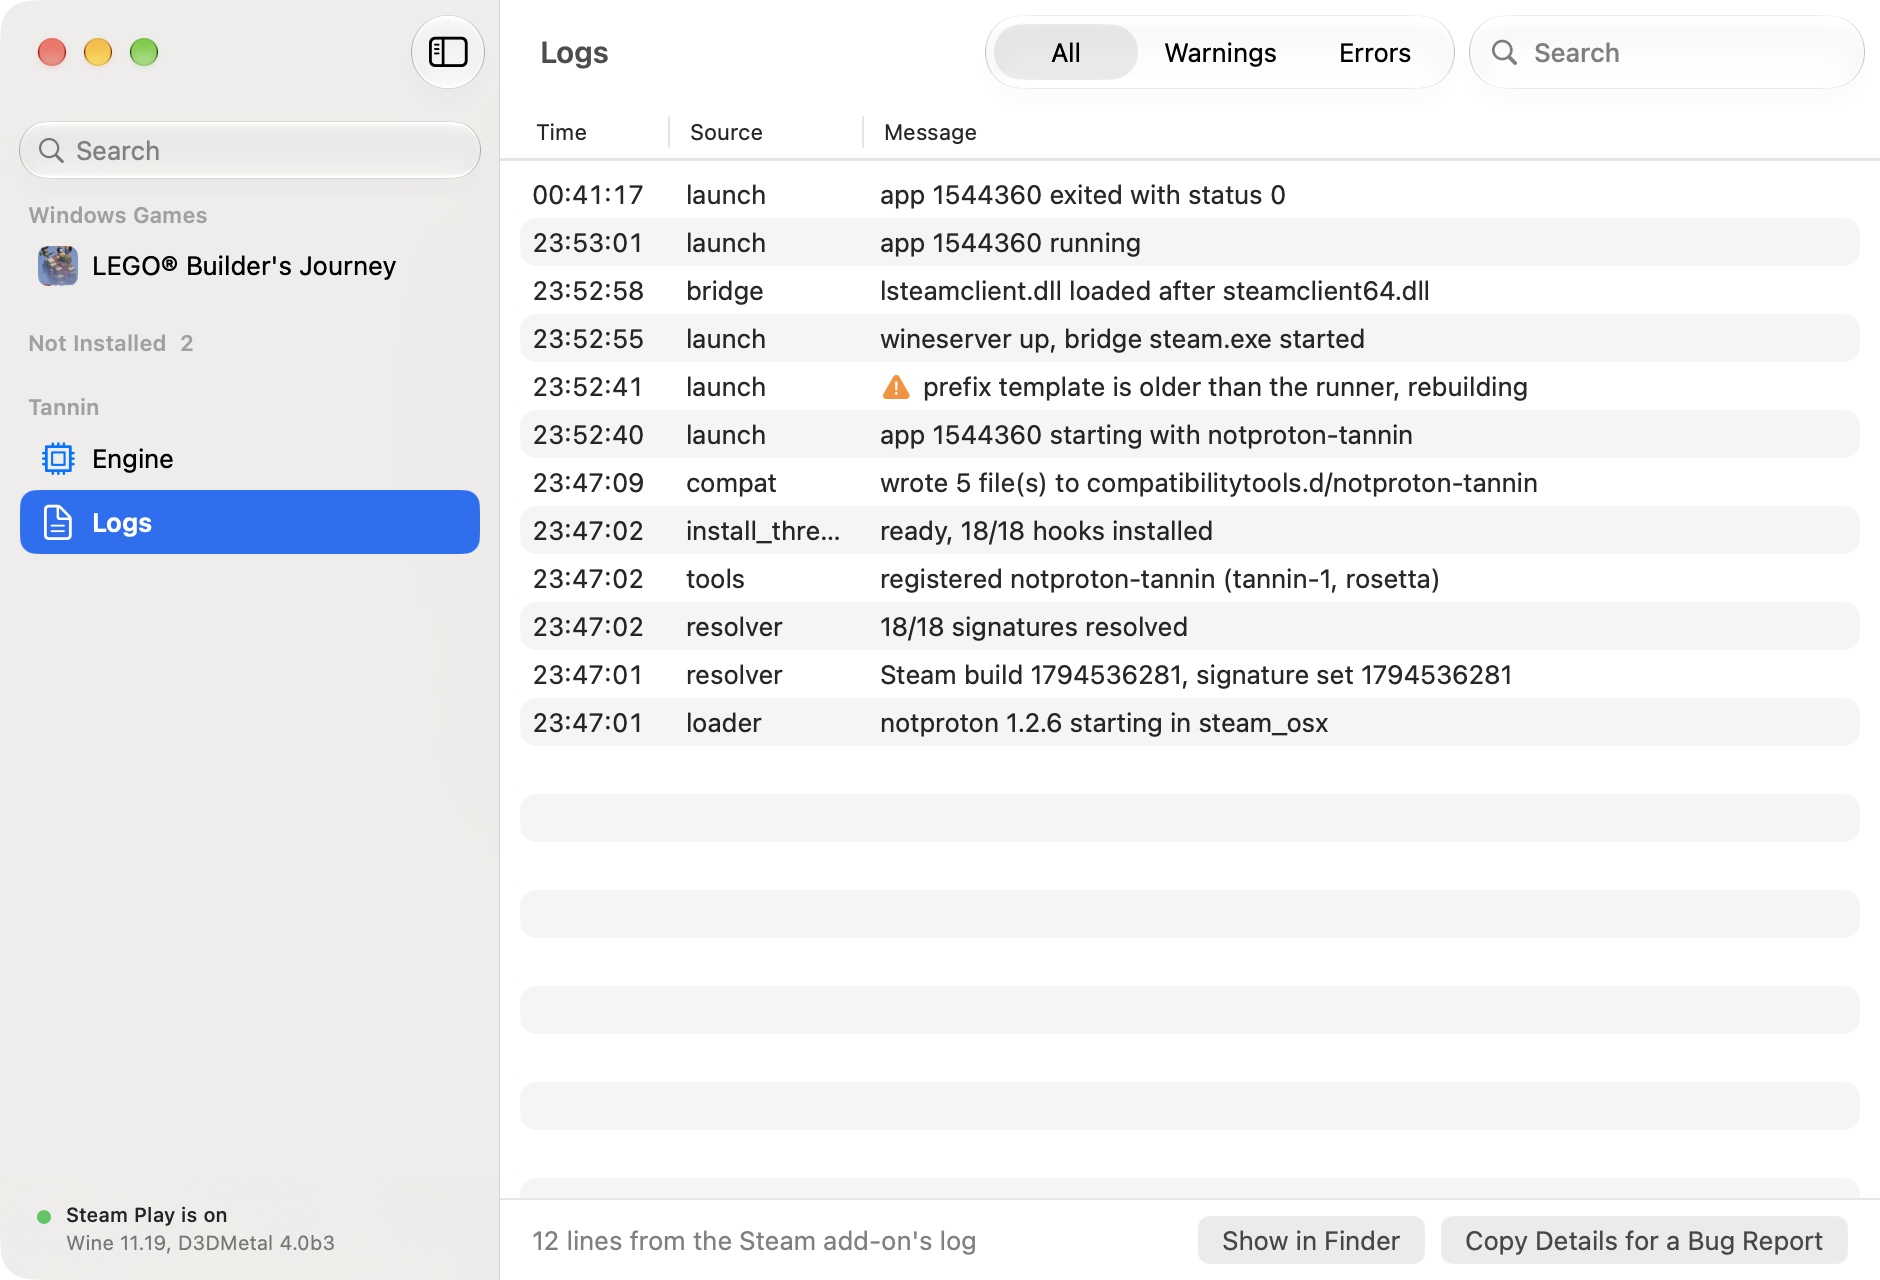
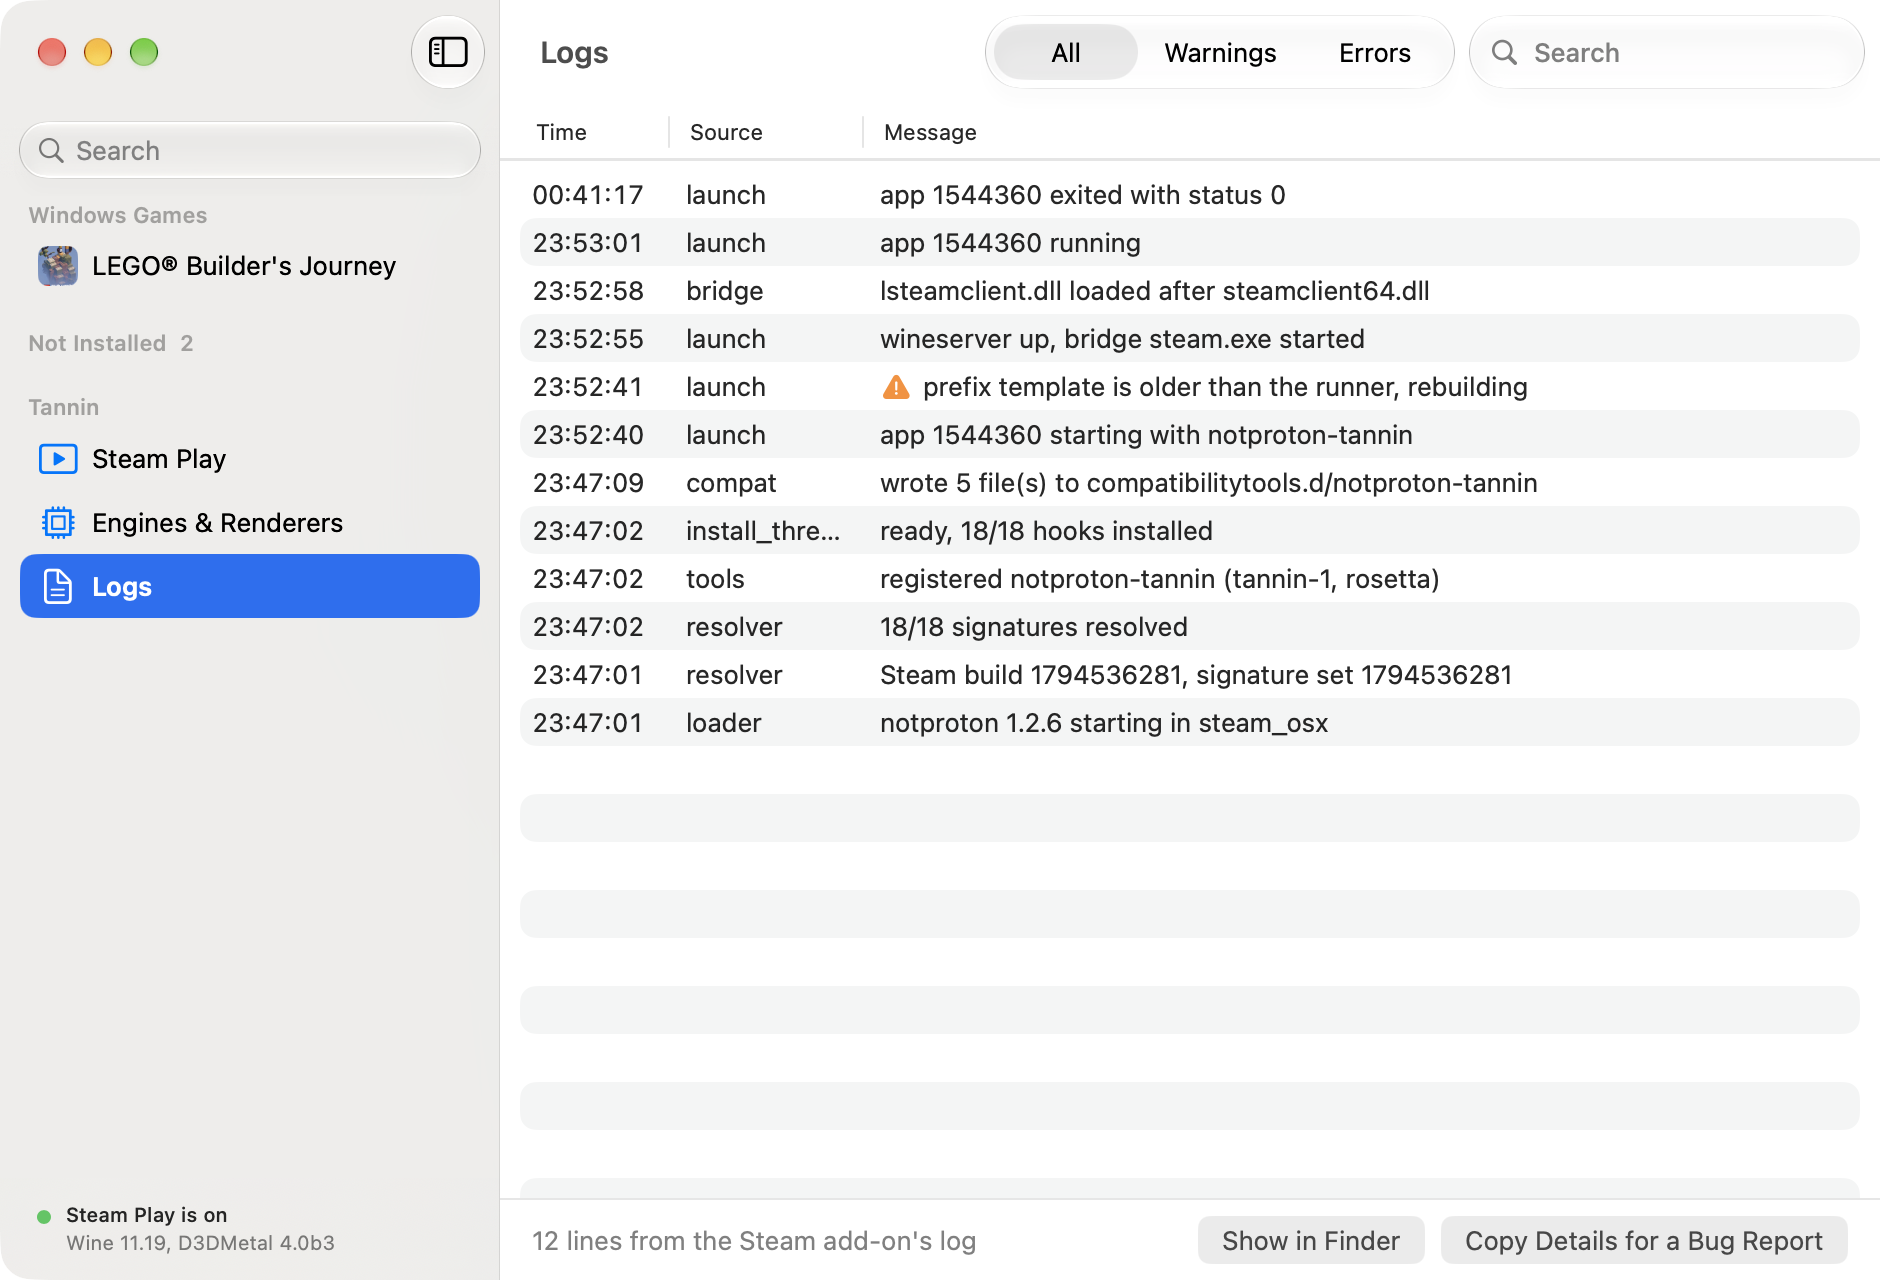
0.6.0: pop-up entries show their second line; a notice when a game needed Direct3D 12; docs and pictures
A pop-up entry written as two texts in a stack only ever drew the first. They are buttons now, which draw
both and still select through their tag. Seen in the running app.

A game whose log shows it asked for Direct3D 12 and nothing drew it says so on its page, with a way to add
D3DMetal. The setup window is the height of five steps. README, website wording, changelog and findings
follow the new pages; the pictures are retaken.

Claude-Session: https://claude.ai/code/session_016VVHjmvDeBvCfJ9GBQeFgj

Changed region(s): [[0.0, 0.3438, 0.2777, 0.5]]

diff --git a/docs/index.html b/docs/index.html
@@ -34,7 +34,7 @@
   <div class="wrap">
     <picture>
       <source media="(prefers-color-scheme: dark)" srcset="screenshots/game-dark.png">
-      <img class="shot" src="screenshots/game-light.png" width="1880" height="1280" alt="Tannin’s window: Windows games in the sidebar, and one game’s page with its artwork, a Play button and its graphics settings">
+      <img class="shot" src="screenshots/game-light.png" width="1880" height="1280" alt="Tannin’s window: Windows games in the sidebar, and one game’s page with its artwork, a Play button, what it runs on and its settings">
     </picture>
   </div>
 
@@ -45,7 +45,7 @@
         <li>Open the download and drag Tannin into your Applications folder.</li>
         <li>Open Tannin. macOS will say it could not verify it, so open System Settings › Privacy &amp; Security and click Open Anyway. You only do this once.</li>
         <li>Follow Set Up Tannin. It downloads the Wine engine and asks before it changes Steam.</li>
-        <li>Optional: add Apple’s <a href="https://developer.apple.com/download/all/?q=game%20porting%20toolkit">Game Porting Toolkit</a> (free with an Apple account). Games that use Direct3D 12 need it.</li>
+        <li>Optional: add Apple’s D3DMetal renderer, under Engines &amp; Renderers. It comes in Apple’s <a href="https://developer.apple.com/download/all/?q=game%20porting%20toolkit">Game Porting Toolkit</a>, free with an Apple account. Games that use Direct3D 12 need it.</li>
       </ol>
       <p>Then install a Windows game from your Steam library and press Play, in Steam or in Tannin.</p>
     </section>
@@ -58,15 +58,15 @@
         <tr><th scope="row">Changes</th><td>Two lines of Steam’s settings.</td></tr>
         <tr><th scope="row">Signs</th><td>Steam again, on your Mac, so that it will load the added file.</td></tr>
         <tr><th scope="row">Stops</th><td>Steam updating itself, because a Steam update turns Steam Play off.</td></tr>
-        <tr><th scope="row">To undo</th><td>Engine › Remove Steam Play puts back a copy of Steam signed by Valve. Your games, saves and account are not touched.</td></tr>
+        <tr><th scope="row">To undo</th><td>Steam Play › Remove Steam Play puts back a copy of Steam signed by Valve. Your games, saves and account are not touched.</td></tr>
       </table>
     </section>
 
     <section>
       <h2>Known limits</h2>
       <ul>
-        <li>Games that use Direct3D 12 need Apple’s Game Porting Toolkit.</li>
-        <li>Direct3D 9 games run on Wine’s own, slower graphics layer.</li>
+        <li>Games that use Direct3D 12 need Apple’s D3DMetal renderer.</li>
+        <li>Direct3D 9 games are drawn by Wine itself, which is slower.</li>
         <li>When Steam moves to a build Tannin does not know yet, Steam Play stays off until Tannin catches up. Mac games are not affected.</li>
         <li>Games whose anti-cheat needs Windows kernel drivers do not run.</li>
       </ul>

diff --git a/Sources/TanninApp/Model/AppModel.swift b/Sources/TanninApp/Model/AppModel.swift
@@ -37,6 +37,8 @@ final class AppModel {
     private(set) var runningGames: Set<String> = []
     /// Games whose last start was refused the screen size they asked for.
     private(set) var refusedScreenSize: Set<String> = []
+    /// Games whose last start asked for Direct3D 12 while D3DMetal was not on the Mac, and drew nothing.
+    private(set) var neededDirect3D12: Set<String> = []
     /// A plain description of the action in progress, or nil.
     private(set) var activity: String?
     private(set) var errorMessage: String?
@@ -124,6 +126,9 @@ final class AppModel {
             var withEnvironment: Set<String> = []
             var running: Set<String> = []
             var refused: Set<String> = []
+            // Only D3DMetal has Direct3D 12; with it on the Mac there is nothing to say.
+            let d3dMetalIsAdded = D3DMetalLink(paths: paths).linkedVersion() != nil
+            let neededDirect3D12 = d3dMetalIsAdded ? [] : Set(games.filter { GameLogSigns.neededDirect3D12(appID: $0, paths: paths) })
             for appID in games where window.hasEnvironment(appID: appID) {
                 withEnvironment.insert(appID)
                 fixedWindows[appID] = window.size(appID: appID)
@@ -149,6 +154,7 @@ final class AppModel {
                 withEnvironment: withEnvironment,
                 running: running,
                 refused: refused,
+                neededDirect3D12: neededDirect3D12,
                 logLines: LogReader(paths: paths).recentLines(),
                 setup: Setup(paths: paths).states(),
                 upkeep: Upkeep(paths: paths).plan(),
@@ -177,6 +183,7 @@ final class AppModel {
         if gamesWithEnvironment != snapshot.withEnvironment { gamesWithEnvironment = snapshot.withEnvironment }
         if runningGames != snapshot.running { runningGames = snapshot.running }
         if refusedScreenSize != snapshot.refused { refusedScreenSize = snapshot.refused }
+        if neededDirect3D12 != snapshot.neededDirect3D12 { neededDirect3D12 = snapshot.neededDirect3D12 }
         reconcileSelection()
     }
 
@@ -220,6 +227,7 @@ final class AppModel {
         gamesWithEnvironment = fixture.gamesWithEnvironment
         runningGames = fixture.runningGames
         refusedScreenSize = fixture.refusedScreenSize
+        neededDirect3D12 = fixture.neededDirect3D12
     }
 
     /// Goes back to what is really on this Mac.

diff --git a/Sources/TanninApp/Game/GameRunsOn.swift b/Sources/TanninApp/Game/GameRunsOn.swift
@@ -118,11 +118,8 @@ struct GameRunsOn: View {
                 if row.isInstalled {
                     Text(row.spec.title).tag(WineChoice.pinned(row.spec))
                 } else {
-                    VStack {
-                        Text(row.spec.title)
-                        Text("\(row.spec.downloadSize) to download")
-                    }
-                    .tag(WineChoice.pinned(row.spec))
+                    PopUpEntry(row.spec.title, detail: "\(row.spec.downloadSize) to download")
+                        .tag(WineChoice.pinned(row.spec))
                     // Another engine is built around what setup installs, so there has to be one first.
                     .selectionDisabled(model.status?.engineInstalled != true)
                 }
@@ -203,12 +200,9 @@ struct GameRunsOn: View {
                 } else if d3dMetalIsMissing {
                     option(.d3dMetal, detail: "Apple's. Not on this Mac yet")
                 } else {
-                    VStack {
-                        Text("D3DMetal")
-                        Text("Apple's. Not on this Mac yet")
-                    }
-                    .badge(Text("Add…"))
-                    .tag(RendererChoice.addD3DMetal)
+                    PopUpEntry("D3DMetal", detail: "Apple's. Not on this Mac yet")
+                        .badge(Text("Add…"))
+                        .tag(RendererChoice.addD3DMetal)
                 }
             }
         } label: {
@@ -221,11 +215,8 @@ struct GameRunsOn: View {
     }
 
     private func option(_ renderer: GraphicsLayer, detail: String) -> some View {
-        VStack {
-            Text(renderer.title)
-            Text(detail)
-        }
-        .tag(RendererChoice.renderer(renderer))
+        PopUpEntry(renderer.title, detail: detail)
+            .tag(RendererChoice.renderer(renderer))
     }
 
     /// Choosing D3DMetal while it is not on the Mac opens the sheet that adds it and leaves the renderer as it

diff --git a/Sources/TanninApp/Support/Fixture.swift b/Sources/TanninApp/Support/Fixture.swift
@@ -26,6 +26,7 @@ struct Fixture {
     var gamesWithEnvironment: Set<String> = ["1544360", "50300"]
     var runningGames: Set<String> = []
     var refusedScreenSize: Set<String> = []
+    var neededDirect3D12: Set<String> = []
     /// The Wine version a game's page fetched and the game has not moved to yet.
     var wantedEngines: [String: EngineSpec] = [:]
     /// Set to show the Add D3DMetal sheet, in this state.
@@ -78,6 +79,8 @@ struct Fixture {
                                           gameEngines: [lego.appID: GameEngine(pin: .wine1117, runsOn: .wine1119)])),
             ("game-d3dmetal-removed", Fixture(status: noToolkit, library: Library(installed: [legoOnD3DMetal], notInstalled: [silentHunter, specOps]),
                                               selection: .game(lego.appID), layerUsage: [lego.appID: .dxmt])),
+            ("game-needs-direct3d-12", Fixture(status: noToolkit, library: Library(installed: [legoCapped], notInstalled: [silentHunter, specOps]),
+                                               selection: .game(lego.appID), neededDirect3D12: [lego.appID])),
             ("game-wine-fetching", Fixture(status: ready, library: library, selection: .game(lego.appID), layerUsage: [lego.appID: .d3dMetal],
                                            engineProgress: downloading, wantedEngines: [lego.appID: .wine1117])),
             ("game-wine-fetch-paused", Fixture(status: ready, library: library, selection: .game(lego.appID), layerUsage: [lego.appID: .d3dMetal],

diff --git a/Sources/TanninCore/Direct3D12Sign.swift b/Sources/TanninCore/Direct3D12Sign.swift
@@ -1,0 +1,23 @@
+import Foundation
+
+extension GameLogSigns {
+    /// What DXMT writes when Wine's own Direct3D 12 asks it for an interface only Wine's own DXGI has. It is
+    /// there whenever a game tries Direct3D 12 on a Mac without D3DMetal (found 2026-11-18; see FINDINGS.md).
+    static let direct3D12Asked = "DXGIAdapter: Unknown interface query f0db4c7f-fe5a-42a2-bd62-f2a6cf6fc83e"
+
+    /// True when the game asked for Direct3D 12, did not get it, and nothing else drew it either. A game that
+    /// tries Direct3D 12 first and then settles for 11, as LEGO Builder's Journey does, leaves the first line
+    /// and then DXMT's own start-up lines, and is not counted: it runs.
+    public static func neededDirect3D12(wineLog: String) -> Bool {
+        wineLog.contains(direct3D12Asked) && LayerUsage.reading(wineLog: wineLog, d3dMetalPossible: false) == nil
+    }
+
+    public static func neededDirect3D12(appID: String, paths: Paths = .live) -> Bool {
+        let log = paths.notproton.appending(path: "launchers/\(appID)/notproton-wine.log")
+        guard let handle = try? FileHandle(forReadingFrom: log) else { return false }
+        defer { try? handle.close() }
+        guard let data = try? handle.read(upToCount: 2_000_000),
+              let text = String(data: data, encoding: .utf8) ?? String(data: data, encoding: .isoLatin1) else { return false }
+        return neededDirect3D12(wineLog: text)
+    }
+}

diff --git a/Tests/TanninCoreTests/LayerTests.swift b/Tests/TanninCoreTests/LayerTests.swift
@@ -482,6 +482,16 @@ private func makeEngines(_ specs: [EngineSpec]) throws -> Paths {
         #expect(store.d3dMetal()?.version == "4.0b3")
     }
 
+    @Test func knowsAGameThatAskedForDirect3D12AndDrewNothing() {
+        // What a Direct3D 12 program left on this engine without D3DMetal, 2026-11-18.
+        let asked = "[mvk-info] MoltenVK version 1.4.2\nwarn:  DXGIAdapter: Unknown interface query f0db4c7f-fe5a-42a2-bd62-f2a6cf6fc83e\nwarn:  DXGIAdapter: Unknown interface query 17399d75-964e-4c03-99f8-9d4fd196dd62\n"
+        #expect(GameLogSigns.neededDirect3D12(wineLog: asked))
+        // LEGO Builder's Journey asks the same, then settles for Direct3D 11 on DXMT, and runs.
+        #expect(!GameLogSigns.neededDirect3D12(wineLog: asked + "info:  Maximum supported feature level: D3D_FEATURE_LEVEL_11_1\ninfo:  Using feature level D3D_FEATURE_LEVEL_11_1\n"))
+        #expect(!GameLogSigns.neededDirect3D12(wineLog: "info:  Using feature level D3D_FEATURE_LEVEL_11_0\n"))
+        #expect(!GameLogSigns.neededDirect3D12(wineLog: ""))
+    }
+
     @Test func theBugReportListsEnginesAndRenderersInThePagesOrder() {
         #expect(LogReader.enginesLine(installed: [.wine1119, .wine1117], fallback: .wine1119) == "11.19 (default), 11.17")
         #expect(LogReader.enginesLine(installed: [.wine1119], fallback: .wine1119) == "11.19")

diff --git a/Sources/TanninApp/Shared/PopUpEntry.swift b/Sources/TanninApp/Shared/PopUpEntry.swift
@@ -1,0 +1,23 @@
+import SwiftUI
+
+/// An entry of a pop-up button that has a second line under its name.
+///
+/// In a pop-up's menu only a button's label is drawn with a second line; two texts in a stack show the first
+/// alone (seen on macOS 27, 2026-11-18). The button's own action is never used: choosing the entry sets the
+/// pop-up's selection through the tag it is given.
+struct PopUpEntry: View {
+    let title: String
+    let detail: String
+
+    init(_ title: String, detail: String) {
+        self.title = title
+        self.detail = detail
+    }
+
+    var body: some View {
+        Button {} label: {
+            Text(title)
+            Text(detail)
+        }
+    }
+}

diff --git a/Sources/TanninApp/Game/GamePage.swift b/Sources/TanninApp/Game/GamePage.swift
@@ -159,6 +159,12 @@ struct GamePage: View {
                 .disabled(model.isBusy)
             }
         }
+        if game.isInstalled, !isRunning, !model.d3dMetalIsAdded, model.neededDirect3D12.contains(game.appID) {
+            NoticeRow(symbol: .warning, text: "This game asked for Direct3D 12 and stopped. Only the D3DMetal renderer has it.") {
+                Button("Add D3DMetal…") { model.showD3DMetalSheet() }
+                    .disabled(model.isBusy)
+            }
+        }
         if game.isInstalled, let problem = model.problem {
             if problem == .steamUpdated {
                 SteamMovedNotice { isConfirmingRemoval = true }

diff --git a/Sources/TanninApp/Model/EngineRow.swift b/Sources/TanninApp/Model/EngineRow.swift
@@ -39,15 +39,6 @@ extension EngineSpec {
     var downloadSize: String { (pin.size ?? 0).megabytes }
 }
 
-/// How adding D3DMetal from a disk image is going, for the sheet that asks for it.
-enum D3DMetalAdd: Equatable {
-    case idle
-    /// Tannin is checking the disk image with this name.
-    case checking(String)
-    /// The last one was not added; the sentence says why.
-    case failed(String)
-}
-
 /// Which Wine engine one game uses.
 struct GameEngine: Equatable {
     /// The engine it is pinned to, or nil when it follows the default.

diff --git a/Sources/TanninCore/InstallRecord.swift b/Sources/TanninCore/InstallRecord.swift
@@ -2,7 +2,7 @@ import Foundation
 
 /// The version of Tannin this code is. Kept equal to the `VERSION` file by a test.
 public enum TanninVersion {
-    public static let current = "0.5.0"
+    public static let current = "0.6.0"
 }
 
 /// What Tannin has installed and from which versions, written whenever it builds or changes those parts.

diff --git a/Sources/TanninApp/Model/D3DMetalAdd.swift b/Sources/TanninApp/Model/D3DMetalAdd.swift
@@ -1,0 +1,8 @@
+/// How adding D3DMetal from a disk image is going, for the sheet that asks for it.
+enum D3DMetalAdd: Equatable {
+    case idle
+    /// Tannin is checking the disk image with this name.
+    case checking(String)
+    /// The last one was not added; the sentence says why.
+    case failed(String)
+}

diff --git a/Sources/TanninApp/Setup/SetupView.swift b/Sources/TanninApp/Setup/SetupView.swift
@@ -64,7 +64,7 @@ struct SetupView: View {
             .padding(.bottom, 20)
         }
         .frame(width: 620)
-        .frame(minHeight: 540)
+        .frame(height: 610)
         .sheet(isPresented: $isAddingSteamPlay) {
             SteamPlaySheet()
         }
